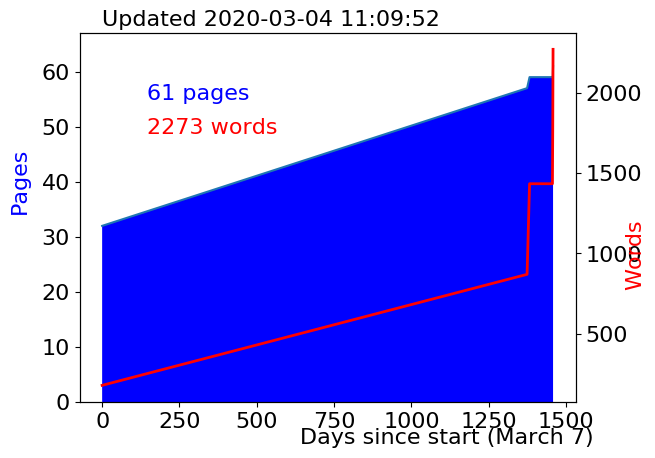
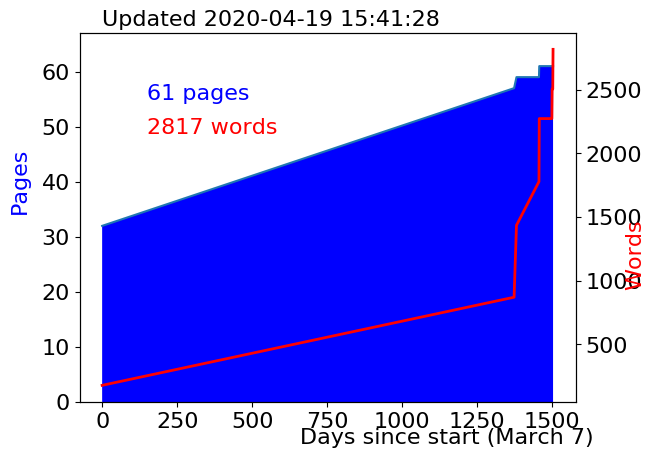
added lepton isolation

diff --git a/Chapters/EventReconstruction.tex b/Chapters/EventReconstruction.tex
@@ -42,13 +42,13 @@ Hits from segments in various layers are fit to form track candidates. This fitt
 Next, the \ac{MS} tracks are combined with \ac{ID} tracks to form \ac{CB} muons, a track fit over the two tracks. \ac{CB} muon tracks are generally seeded from the \ac{MS}, then extrapolated inward and matched to an \ac{ID} track, but the inverse is also allowed. Hits from the \ac{MS} may be added or removed to improve the fit between the two tracks.
 
 
-%TO DO: what are "trigger hits"
+\editnote{what are "trigger hits"}
 
 \subsubsection{Muon Identification}
 
 This analysis uses the default muon working point for ATLAS analyses, called a \emph{medium} muon. This working point places a requirement on the number of \ac{ID} and \ac{MS} hits that comprise the track to ensure a robust momentum measurement. At least 1 pixel hit, at least 5 \ac{SCT} hits, and at least 10\% of the \ac{TRT} hits associated to the object are included in the final fit are required. It also requires there to be fewer than 3 holes in the silicon tracking layers, where holes are defined as a missing hit from a sensor traversed by the track. Furthermore, \ac{MS} track must have at least 3 hits in at least 2 \ac{MDT} layers. In the crack region $|\eta| < 0.1$, \ac{MS} tracks with at least three hits in only one \ac{MDT} layer are allowed provided there are no holes in the track. Finally, a loose requirement is placed on the consistency between the \ac{MS} and \ac{ID} tracks. Namely, the \emph{q/p significance}, the difference between the charge and momentum ratio in the \ac{ID} and \ac{MS} divided by their uncertainties summed in quadrature, is required to be less than 7. 
 
-%TODO: insert plot about muon performance
+\editnote{insert plot about muon performance}
 
 
 \subsection{Modifications}
@@ -56,13 +56,12 @@ This analysis uses the default muon working point for ATLAS analyses, called a \
 For this analysis, muons are reconstructed after \ac{LRT} is performed and the reconstruction and identification efficiency is quite high. Furthermore, we remove the requirement that the \ac{ID} track has at least one pixel hit, further improving the efficiency at high $d_{0}$. The effect of these improvements is show in fig %TODO
 
 
-This modification of the muon identification increases the fake rate of muons, so again we impose quality requirements that are independent of displacement. Primarily, we require the muon to have at least two precision hits and require the $\chi^{2}_{CB}/N_{DoF} < 3$. The $\chi^{2}_{CB}$ requirement is, in effect, a requirement on the consistency of the $p_{T}$ of the two tracks. 
+This modification of the muon identification increases the fake rate of muons, so again we impose quality requirements that are independent of displacement. Primarily, we require the muon to have at least two \ac{MS} layers with at least three precision hits, that the muon have at least one $\phi$ measurement (otherwise the \ac{MS} $\phi$ measurement is taken as the center of the \ac{MDT}, with an uncertainity of 0.2) and require the $\chi^{2}_{CB}/N_{DoF} < 3$. The $\chi^{2}_{CB}$ requirement is, in effect, a requirement on the consistency of the $p_{T}$ of the two tracks. 
 
 
-%TODO: plots of quality vars
+\editnote{plots of quality vars}
 
-%TODO make muon reco, ID, signal efficiences with higher stats
-%TODO: why isn't the precision hit cut redundant?
+\editnote{make muon reco, ID, signal efficiences with higher stats -- grab from INT when available}
 
 
 
@@ -77,7 +76,7 @@ Electrons are reconstructed using clusters from the \ac{EM} calorimeter as well 
 
 \subsection{Standard Reconstruction and Identification}
 
-%TODO: schematic from page 10 of atlas-electron-reco
+\editnote{schematic from page 10 of atlas-electron-reco}
 
 \subsubsection{Cluster Reconstruction}
 
@@ -92,18 +91,22 @@ This loosened track fitting requirements allow for increased efficiency, but the
 
 This procedure is performed on tracks with $>4$ silicon hits and roughly match to an \ac{EM} cluster. In general, this matching is done based on the angles of the track and the cluster, which creates a problem for tracks with high $d_{0}$. This needed to be altered in order to efficiently reconstruct electrons with high \dzero. 
 
-%TODO: replicate anthony doodle
 
 The \ac{GSF} procedure is based on a series of Kalman filters running in parallel. Six Gaussian filters are used to describe energy loss in material, and up to twelve are used to model the track parameters. This procedure also accounts for the increase in curvature caused by the decrease in momentum due to energy loss in material, improving the calculation of track parameters. An example of this is show in the figure below. The reconstruction efficiency for this step is around 98\% for electrons with $\et > 30 \GeV$. 
 
-%TODO: add qxd0 figure from p15 of atlas-electron-reco
+\editnote{add qxd0 figure from p15 of atlas-electron-reco}
 
 
 \subsubsection{Combined Reconstruction}
+To put it all together, \ac{GSF} tracks are then matched to seed calorimeter clusters then the final cluster size is determined. Tracks and clusters are matched with stricter requirements, requiring that their $\phi$ measurement is within $+0.05$ or $-0.10$. It is possible that several tracks might match to the same cluster, but a primary track is assigned based on its proximity and quality. If the track can be associated to a vertex, it is classified as a potential photon conversion, not an electron. Electrons are further distinguised from photon conversions using their $E/p, p_{T}$, number of pixel hits, and relationship to a secondary vertex. 
 
-%TODO: add figure from p 12 of atlas-electron-reco
+Final clusters are formed by looking in a window around the seed cluster. Offline calibration of the reconstructed cluster is required. The reconstructed electron's energy measurment is taken from its full cluster, and directional information taken from its track. At $\et > 15 \GeV$, there is a 99\% efficiency to reconstruct an electron (provided it has at least one pixel hit and at least seven total silicon hits on track). 
+
+\editnote{add figure from p 12 of atlas-electron-reco}
 
 \subsubsection{Identification}
+
+Electrons are identified using a likelihood that further distinguishes them from photons and converted photons. Many factors enter the electron identification likelihood, listed in table \editnote{TABLE}. The likelihood is more flexible than a simple cut-based method, allowing for electrons to fail one selection criterion. It also allows for the use of discriminating critera which have relatively similar shapes in signal and background.
 
 
 \subsection{Modifications}
@@ -115,15 +118,24 @@ At the identification stage, we remove variables concerned with $d_{0}$ from the
 
 After these modifications, we introduce many fake electrons, primarily resulting from a fake \ac{LRT} track being associated to an \ac{EM} cluster from a photon. The most powerful discriminator is the consistency in the $p_{T}$ as measured by the track and the cluster, defined as $\Delta p_{T} = p_{T}^{track}/p_{T}^{e}$. Furthermore, we require the primary track to be good quality, with $\chi^{2} < 2$ and at maximum one missing hit on track after the innermost hit. 
 
-%TODO: plots of quality vars
+\editnote{plots of quality vars}
 
-%TODO make electron reco, ID, signal efficiences with higher stats
+\editnote{make electron reco, ID, signal efficiences with higher stats -- grab from INT}
 
 
 
 
 \section{Isolation}
-In this analysis, both muons and electrons are required to be isolated to reduce background from heavy flavor decays. 
+
+In this analysis, both muons and electrons are required to be isolated to reduce background from heavy flavor decays. That is, they are not expected to be surrounded by much other activity from the hard scatter in either the Inner Detector or Calorimeters. Isolation is generally measured in terms as the scalar sum of energy in a radius $\Delta R = \sqrt{(\Delta \eta)^2 + (\Delta \phi)^2}$ divided by the lepton's $p_{T}$. Track based isolations are called $p_{T}^{\textrm{varcone}}$ and calorimeter based isolations called $E_{T}^{\textrm{topocone}}$. 
+
+For example, the track-based isolation called $p_{T}^{\textrm{varcone30}}$ is the scalar sum of the transverse momenta of tracks with $p_{T} > 1 \GeV$ in a cone of $\Delta R = \textrm{min}(10 \GeV/p_{T}^{\ell}, 0.3)$, then a value is selected to determine what should be considered ``isolated''. Whereas the calorimeter-based isolation just counts the energy in a specified \dR, not as a funtion of the energy of the particle. Isolation working points are then centrally defined as a combination of cuts on the track-based and calorimeter-based isolation. 
+
+These definitions are much simpler for muons than for electrons. Electrons are very likley to emit bremsstrahlung radiation as they traverse the inner detector and those photons can then convert back into electrons. The tracks from these secondary particles are considered part of the electron's \pT. Furthermore, of course the electron leaves its energy deposit in the \ac{EM} calorimeter and this energy must be subtracted from the $E_{T}^{\textrm{topocone}}$ calculation.
+
+
+In this analysis we use the following working points
+\editnote{grab isolation requirements from INT when finalized}
 
 
 

diff --git a/scripts/pages.md b/scripts/pages.md
@@ -18,3 +18,9 @@
 + [2020-03-04-10h47m19s] 61 2187
 + [2020-03-04-10h47m56s] 61 2187
 + [2020-03-04-11h09m52s] 61 2273
++ [2020-03-04-11h24m17s] 61 2273
++ [2020-04-16-20h46m22s] 59 2505
++ [2020-04-16-20h46m42s] 61 2505
++ [2020-04-16-20h47m01s] 61 2505
++ [2020-04-19-15h37m22s] 61 2721
++ [2020-04-19-15h41m28s] 61 2817
